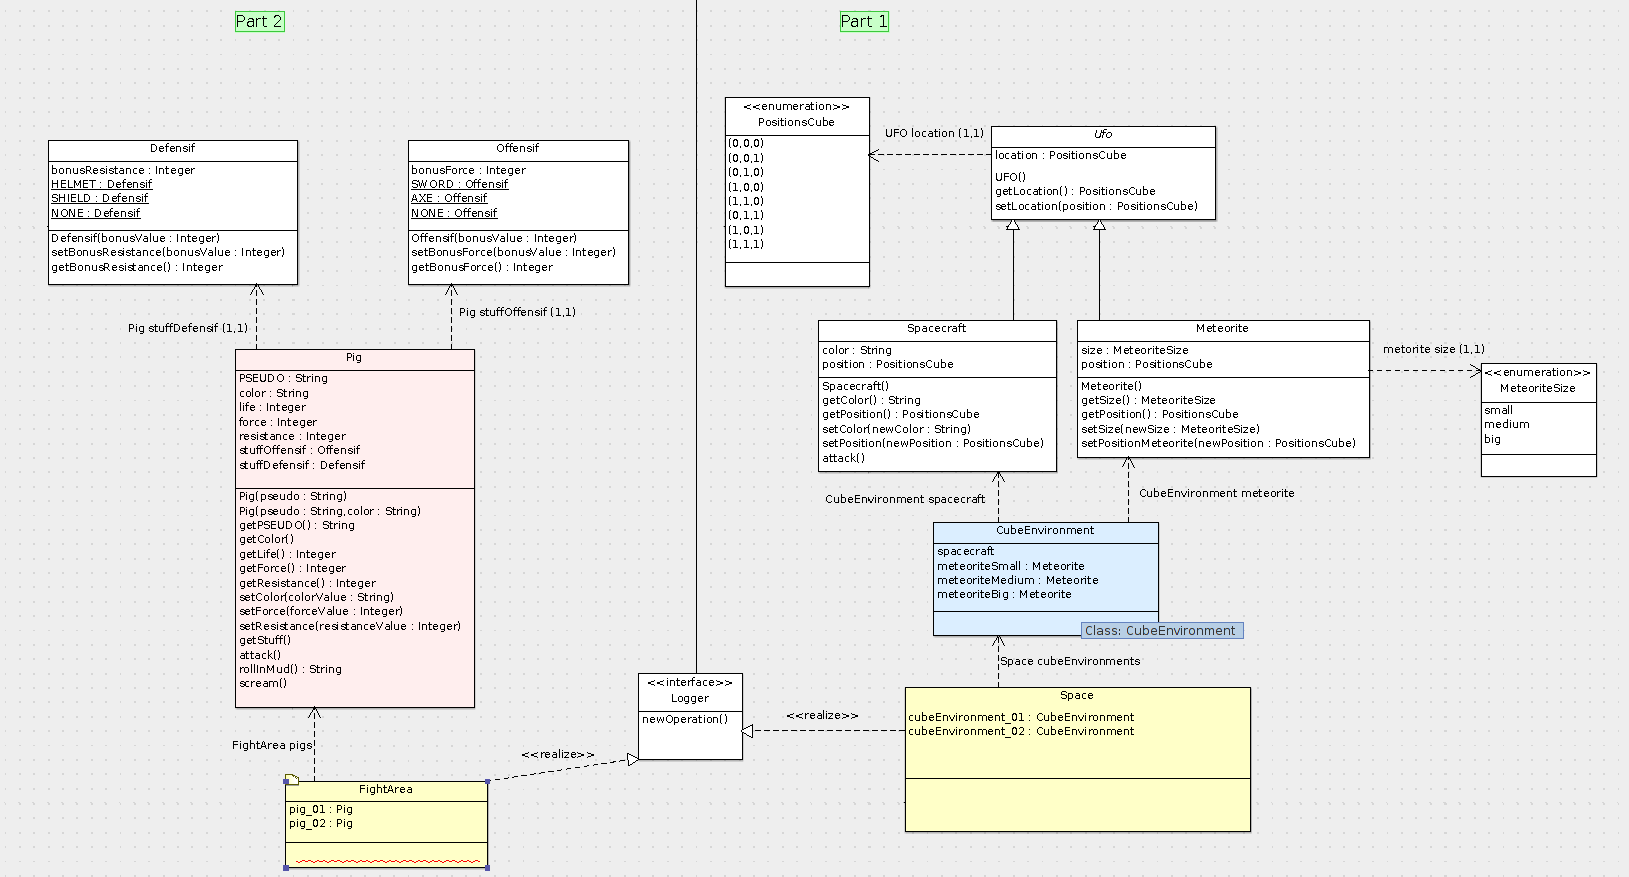
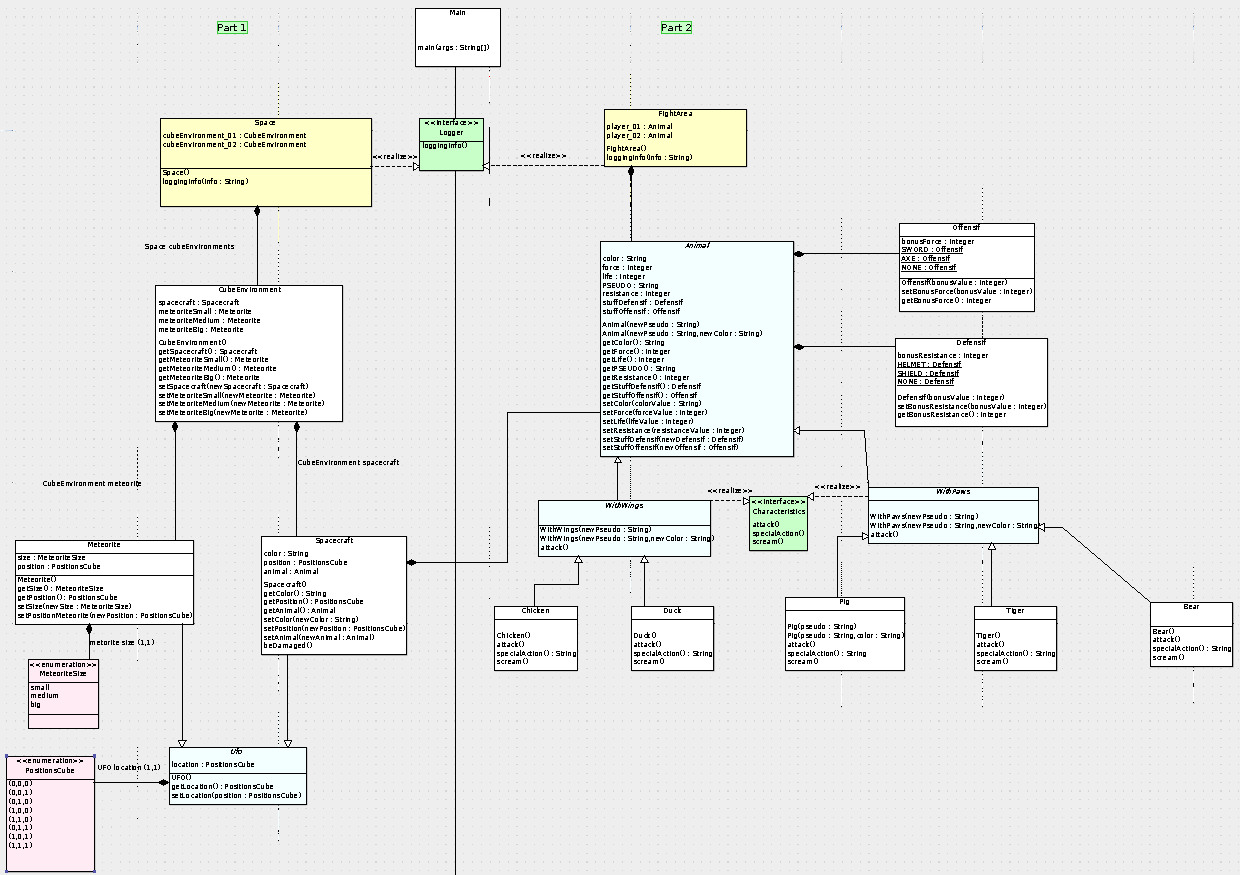
Begin WithPaws class and update UML and its picture

diff --git a/src/Animal/WithPaws.java b/src/Animal/WithPaws.java
@@ -1,15 +1,60 @@
 package Animal;
 
-
 public abstract class WithPaws extends Animal implements Characteristics {
 
-  /** 
-   *  Constructor
-   */
-  public WithPaws() {
-  }
+	/*
+	 * ___________________________________________________________________________________________
+	 * Constructors
+	 */
+	/**
+	 * Constructor
+	 * 
+	 * @param 1 String = animal's Pseudo
+	 * @return nothing
+	 */
+	public WithPaws(String newPseudo) {
+		super(newPseudo);
+	}
+	
+	/**
+	 * Constructor
+	 * 
+	 * @param 1 String = animal's Pseudo
+	 * @param 1 String = animal's color
+	 * @return nothing
+	 */
+	public WithPaws(String newPseudo, String newColor) {
+		super(newPseudo, newColor);
+	}
 
-  public void attack() {
-  }
+	/*
+	 * ___________________________________________________________________________________________
+	 * Getters
+	 */
+	/**
+	 * Get animal's color
+	 * 
+	 * @param nothing
+	 * @return 1 String = animal's color value
+	 */
+	
+	/*
+	 * ___________________________________________________________________________________________
+	 * Setters
+	 */
+	/**
+	 * Set animal's color
+	 * 
+	 * @param 1 String = animal's color value
+	 * @return nothing
+	 */
+	
+	
+	/*
+	 * ___________________________________________________________________________________________
+	 * Functions
+	 */
+	public void attack() {
+	}
 
 }

diff --git a/src/Animal/Animal.java b/src/Animal/Animal.java
@@ -43,6 +43,19 @@ public abstract class Animal {
 		this.PSEUDO = newPseudo;
 		this.color = "pink";
 	}
+	
+	/**
+	 * Constructor
+	 * 
+	 * @param 1 String = animal's Pseudo
+	 * @param 1 String = animal's color
+	 * @return nothing
+	 */
+	public Animal(String newPseudo, String newColor) {
+		this.PSEUDO = newPseudo;
+		this.color = "pink";
+	}
+
 
 	/*
 	 * ___________________________________________________________________________________________
